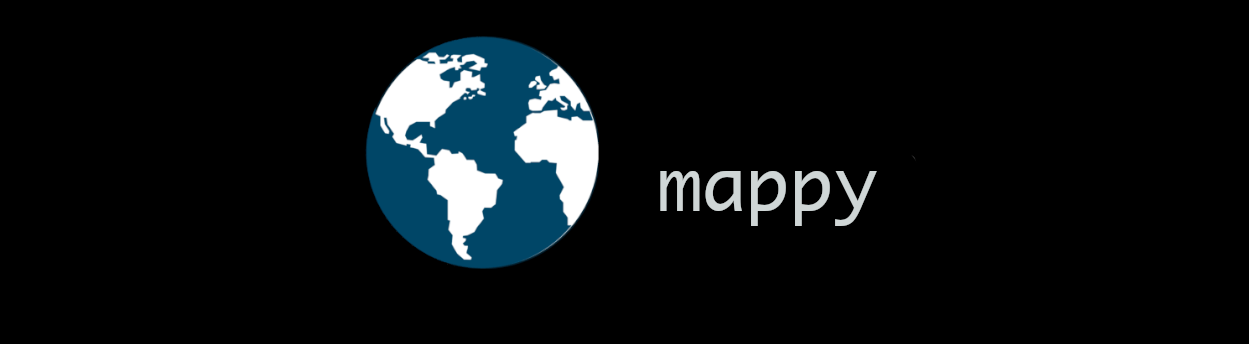
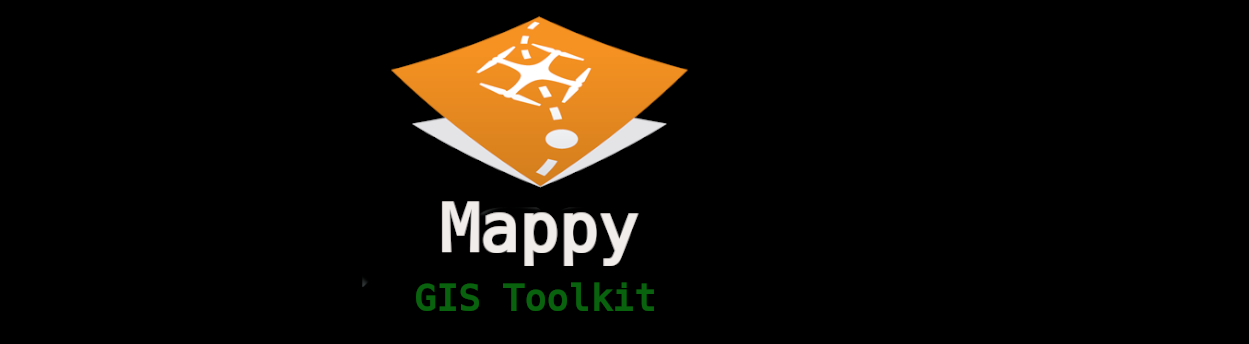
updates

Changed region(s): [[0.281, 0.0581, 0.562, 0.7849], [0.5308, 0.4942, 0.7182, 0.6686], [0.3122, 0.814, 0.5308, 0.9012]]

diff --git a/app.py b/app.py
@@ -1472,33 +1472,31 @@ static_maps = StaticMapURL( api_key=api_key )
 # Geocoding & Places Tab
 # ==============================================================================
 if mode == 'Geocoding':
-    st.markdown( '#### Geocoding & Places' )
-    set_blue_divider( )
+    st.subheader( 'Geocoding & Places' )
+    st.divider( )
     
-    geo_c1, geo_c2, geo_c3 = st.columns( [ 0.5, 0.25, 0.25 ], border=True, width='stretch' )
-    
+    geo_c1, geo_c2= st.columns( [ 0.75, 0.25 ], border=True )
     with geo_c1:
 	    query = st.text_input( 'Address or Location' )
     
     with geo_c2:
 	    use_places = st.checkbox( 'Use Places fallback if geocoding fails', value=True )
     
-    with geo_c3:
-	    if st.button( 'Resolve Location' ):
-		    if not query:
-			    st.warning( 'Enter a location.' )
-		    else:
-			    try:
-				    result = geocoder.freeform( query )
-				    st.json( result )
-			    
-			    except NotFound:
-				    st.warning( 'Geocoding failed. Trying Places search.' )
-				    result = places.text_to_location( query )
-				    st.json( result )
-			    
-			    except Exception as e:
-				    st.error( str( e ) )
+    if st.button( 'Resolve Location' ):
+	    if not query:
+		    st.warning( 'Enter a location.' )
+	    else:
+		    try:
+			    result = geocoder.freeform( query )
+			    st.json( result )
+		    
+		    except NotFound:
+			    st.warning( 'Geocoding failed. Trying Places search.' )
+			    result = places.text_to_location( query )
+			    st.json( result )
+		    
+		    except Exception as e:
+			    st.error( str( e ) )
 
 # ==============================================================================
 # Distance Matrix Tab